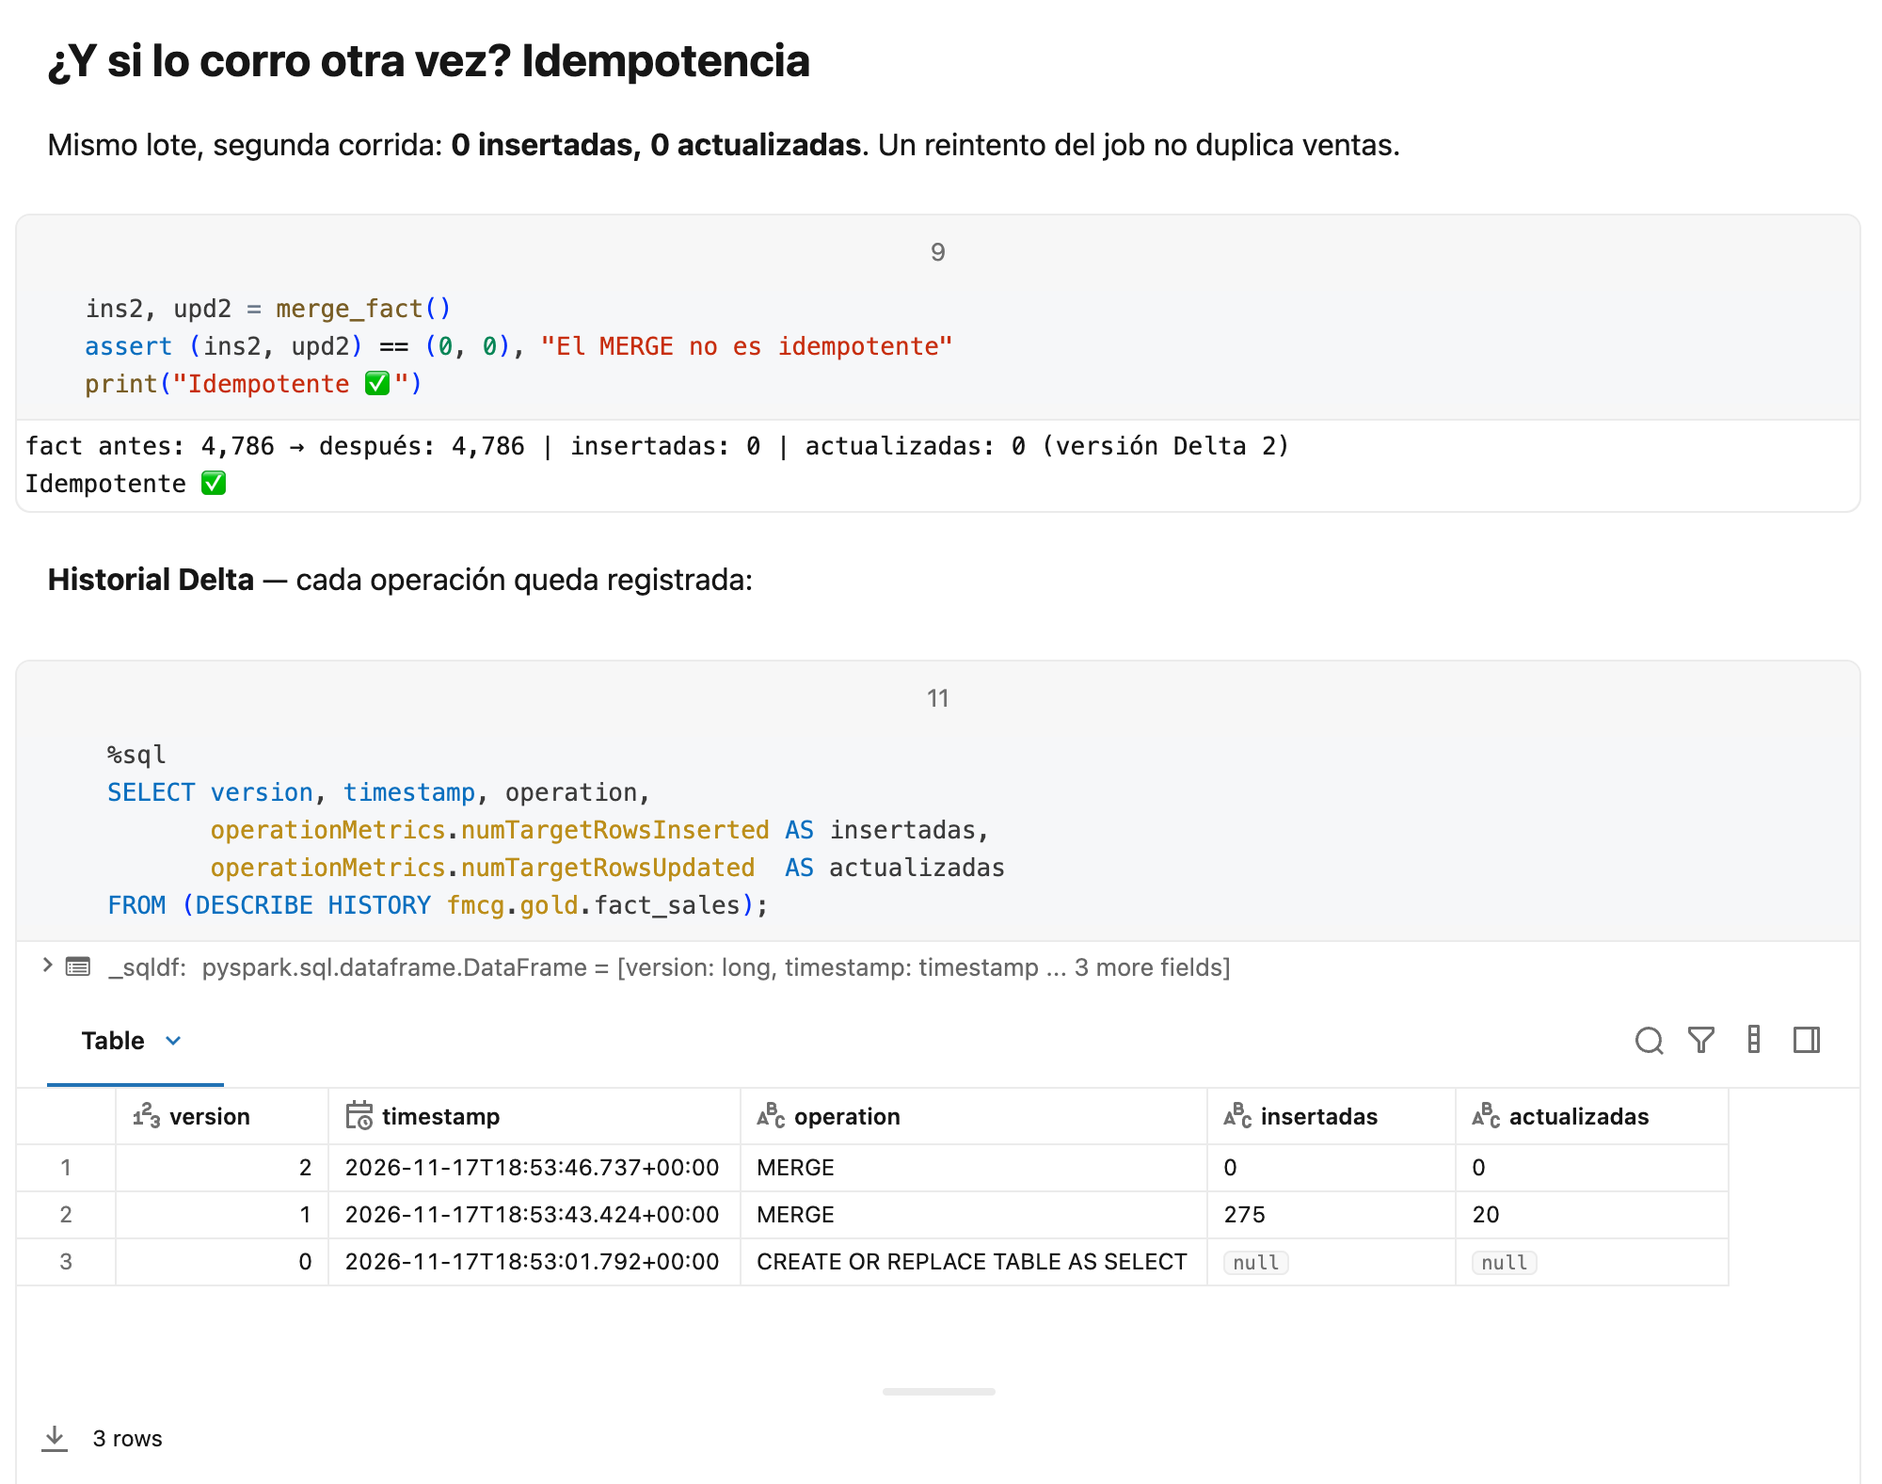
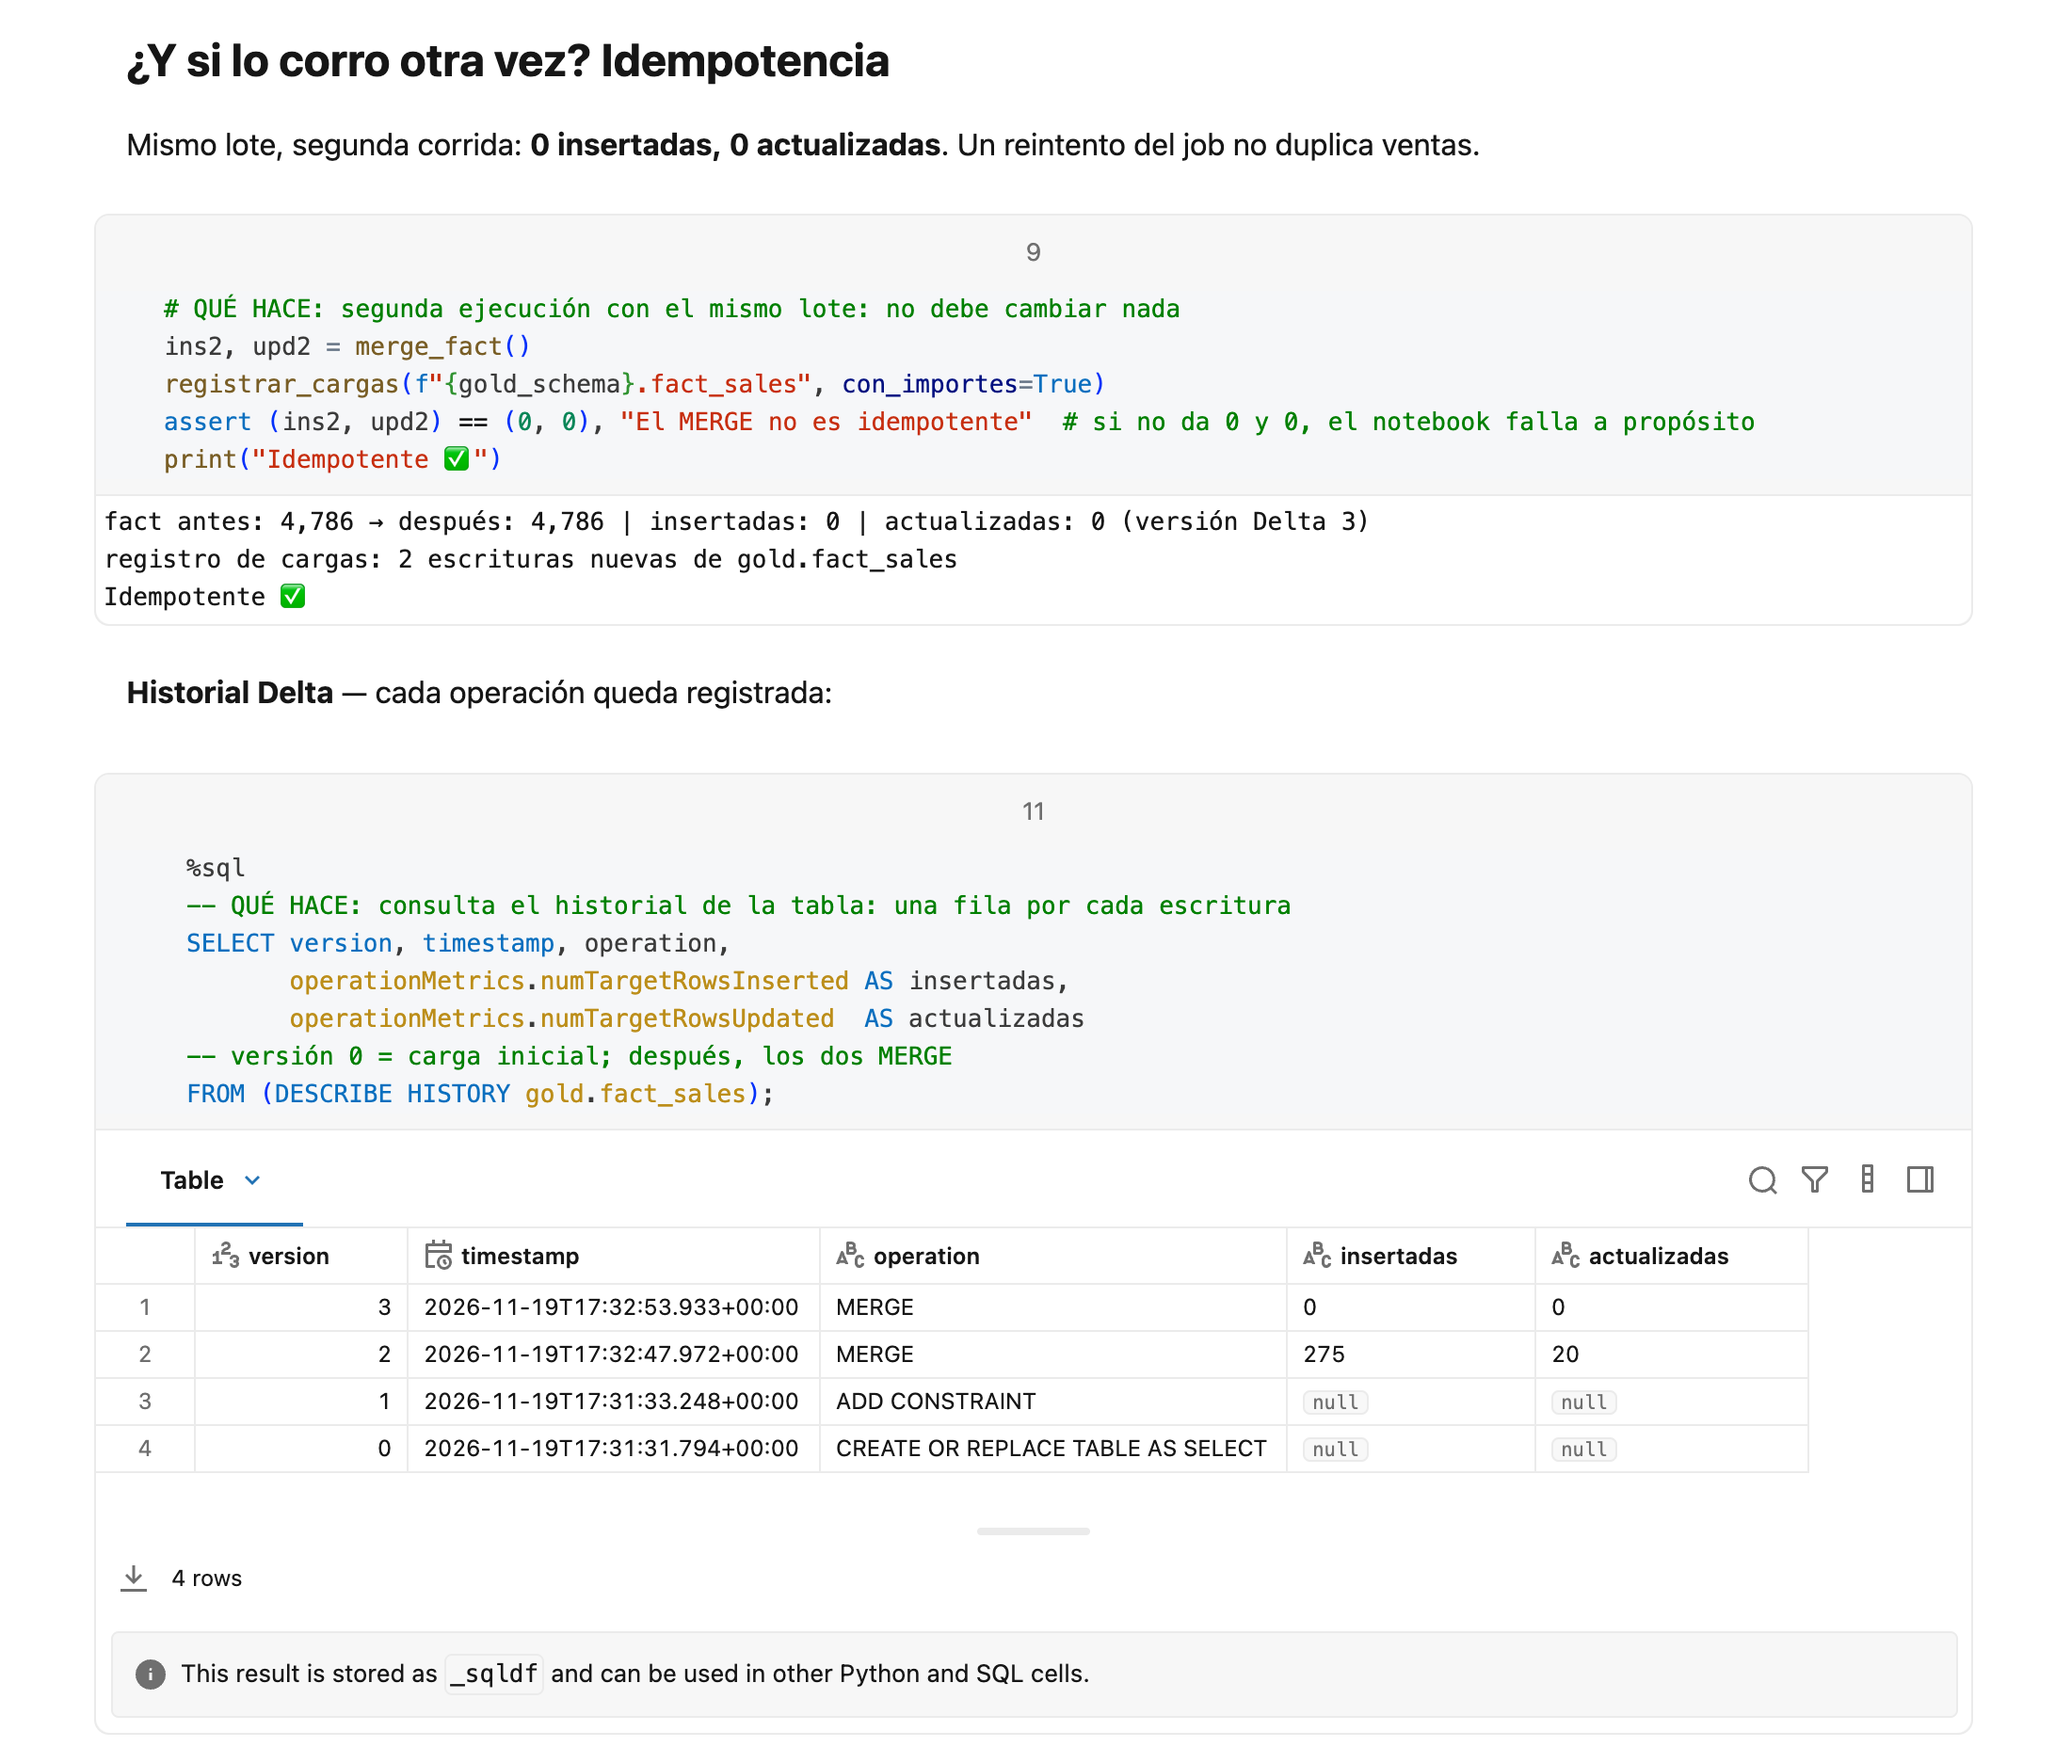
Capturas del README tomadas de esta versión, prueba de la validación sin historial de Delta y run_all en cluster con el código final

diff --git a/qa/pruebas/historial_recortado.py b/qa/pruebas/historial_recortado.py
@@ -1,0 +1,27 @@
+# Databricks notebook source
+# MAGIC %md
+# MAGIC ## Prueba · la validación no necesita el historial de Delta
+# MAGIC Delta recorta el historial de una tabla con el tiempo, y ese recorte no se puede forzar en el día. Esta prueba lo simula: sustituye `gold.fact_sales` y `silver.orders` por clones de sí mismas, cuyo historial empieza de cero y ya no contiene la carga inicial ni los `MERGE`. Después se ejecuta `98_validacion`: si da todas las cifras, es porque las lee del registro de cargas (`gold.load_log`) y no del historial.
+# MAGIC
+# MAGIC Ejecútala con el pipeline ya corrido. Los datos de las tablas no cambian.
+
+# COMMAND ----------
+
+# MAGIC %run ../../notebooks/utilities
+
+# COMMAND ----------
+
+for tabla in (f"{gold_schema}.fact_sales", f"{silver_schema}.orders"):
+    antes = [h["operation"] for h in spark.sql(f"DESCRIBE HISTORY {catalog}.{tabla}").collect()]
+    filas = spark.table(f"{catalog}.{tabla}").count()
+    spark.sql(f"CREATE OR REPLACE TABLE {catalog}.{tabla}__clon DEEP CLONE {catalog}.{tabla}")
+    spark.sql(f"DROP TABLE {catalog}.{tabla}")
+    spark.sql(f"CREATE TABLE {catalog}.{tabla} DEEP CLONE {catalog}.{tabla}__clon")
+    spark.sql(f"DROP TABLE {catalog}.{tabla}__clon")
+    despues = [h["operation"] for h in spark.sql(f"DESCRIBE HISTORY {catalog}.{tabla}").collect()]
+    print(tabla, "| historial antes:", len(antes), "versiones, con MERGE:", "MERGE" in antes, "| después:", despues)
+    assert "MERGE" in antes, "ejecuta antes el pipeline completo"
+    assert "MERGE" not in despues and len(despues) < len(antes), "el historial no quedó recortado"
+    assert spark.table(f"{catalog}.{tabla}").count() == filas, "los datos cambiaron"
+
+print("Historial sustituido. Ahora ejecuta 98_validacion: debe dar todas las cifras.")

diff --git a/README.md b/README.md
@@ -220,10 +220,10 @@ Los jobs fallan a medias y se reintentan. Una carga que duplica en el reintento 
 - **La condición con `<=>`** compara tratando a `NULL` como un valor más, así que solo se reescriben las filas que de verdad cambiaron.
 - **Silver y Gold** usan `MERGE` con una condición de cambio: solo reescriben una fila si su cantidad (o su precio) cambió. Gold lo prueba en el propio notebook, que falla si la segunda ejecución no da 0 y 0; la validación comprueba además que, en ambas capas, todo `MERGE` posterior al primero no cambió nada.
 - **Bronze** usa Auto Loader: su *checkpoint* anota cada archivo procesado y avanza junto con la escritura, así que un archivo queda cargado exactamente una vez aunque la ejecución se interrumpa y se repita.
-- **Probado, no solo diseñado:** con este mismo código, en serverless y sobre el catálogo de `dev`, una segunda ejecución completa sin reset terminó en verde con las 66 comprobaciones, y lo mismo el orquestador `run_all` desde cero. Con una orden inesperada añadida en un archivo nuevo, el job terminó en rojo y señaló las 11 cifras afectadas. De estas pruebas se conserva el [registro del resultado](qa/evidencia/ejecucion_job.json), no las salidas completas.
+- **Probado, no solo diseñado:** con este mismo código, en serverless y sobre el catálogo de `dev`, una segunda ejecución completa sin reset terminó en verde con las 66 comprobaciones, y lo mismo el orquestador `run_all`, desde cero en serverless y sin reset en un cluster de un nodo. Con una orden inesperada añadida en un archivo nuevo, el job terminó en rojo y señaló las 11 cifras afectadas. De estas pruebas se conserva el [registro del resultado](qa/evidencia/ejecucion_job.json), no las salidas completas.
 - **Qué prueba cada cosa:** la idempotencia del `MERGE` la demuestra el notebook `08`, que lo ejecuta dos veces con el mismo lote. Una re-ejecución completa sin reset llega al mismo resultado por otro camino: Bronze no carga nada nuevo y Silver y la tabla de hechos se reconstruyen desde todo Bronze.
 - **Recuperación ante un corte:** la tabla de paso se arma con las filas incrementales de Bronze más recientes que las que ya contiene, no con la memoria de la ejecución. Si la ejecución se interrumpe después de cargar Bronze y antes de escribirla, el reintento la reconstruye; está probado con [`qa/pruebas/corte_bronze.py`](qa/pruebas/corte_bronze.py): tras el corte, el resto del pipeline dio 66 de 66.
-- **La validación no depende del historial de Delta:** cada carga completa y cada `MERGE` se copia a una tabla propia, `gold.load_log`, y la validación lee de ahí. El historial de Delta se recorta con el tiempo; el registro, no. No está probado con un historial ya recortado.
+- **La validación no depende del historial de Delta:** cada carga completa y cada `MERGE` se copia a una tabla propia, `gold.load_log`, y la validación lee de ahí. El historial de Delta se recorta con el tiempo; el registro, no. Probado con [`qa/pruebas/historial_recortado.py`](qa/pruebas/historial_recortado.py), que sustituye las tablas por clones sin historial: la validación dio 66 de 66. Es una simulación, porque el recorte real de Delta no se puede forzar en el día.
 - **Filas malformadas:** un valor que no encaja en el tipo declarado (un texto donde va un número) no se convierte en nulo en silencio: Auto Loader lo guarda en `_rescued_data` y Silver envía la orden a cuarentena con el motivo `fila_malformada`. Probado con [`qa/pruebas/fila_malformada.py`](qa/pruebas/fila_malformada.py). **Límite:** una fila con columnas de más no se señala, porque el lector CSV descarta los valores sobrantes; y la regla solo existe para órdenes.
 
 | El `MERGE` ejecutado | Segunda ejecución e historial de la tabla |
@@ -299,13 +299,13 @@ El pipeline se puede volver a ejecutar sin preparar nada: una segunda ejecución
 ```
 ├── notebooks/     14 notebooks en formato fuente de Databricks (00–09, 98, 99, run_all, utilities) y `esperado`, generado
 ├── data/          gen_data.py y los 5 CSV ya generados (carga inicial e incremental)
-├── qa/            oraculo.py (cálculo independiente), esperado.json (cifras esperadas), comparar.py y evidencia/ de la última ejecución
+├── qa/            oraculo.py (cálculo independiente), esperado.json (cifras esperadas), comparar.py, evidencia/ de la última ejecución y pruebas/ adicionales
 ├── databricks.yml definición del job como Databricks Asset Bundle
 ├── jobs/          la misma definición en JSON
 ├── dashboard/     definición del dashboard de ventas
 ├── tools/         utilidad para quitar o poner los comentarios de los notebooks
 ├── docs/          guía de ejecución, decisiones de diseño y limitaciones, y capturas del README
-└── .github/       verificación automática en cada cambio
+└── .github/       verificación automática en cada cambio y despliegue desde GitHub
 ```
 
 ## Limitaciones y siguientes pasos

diff --git a/README.en.md b/README.en.md
@@ -222,10 +222,10 @@ Jobs fail halfway and get retried. A load that duplicates on retry inflates sale
 - **The `<=>` condition** compares treating `NULL` as just another value, so only the rows that really changed are rewritten.
 - **Silver and Gold** use `MERGE` with a change condition: a row is only rewritten if its quantity (or its price) changed. Gold proves it in the notebook itself, which fails if the second run does not give 0 and 0; validation also checks that, in both layers, every `MERGE` after the first one changed nothing.
 - **Bronze** uses Auto Loader: its checkpoint records every processed file and advances together with the write, so a file is loaded exactly once even if the run is interrupted and repeated.
-- **Tested, not just designed:** with this same code, on serverless and against the `dev` catalog, a second full run without a reset ended green on all 66 checks, and so did the `run_all` orchestrator from scratch. With an unexpected order added in a new file, the job failed and flagged the 11 affected figures. For these tests the [result is recorded](qa/evidencia/ejecucion_job.json), not the full outputs.
+- **Tested, not just designed:** with this same code, on serverless and against the `dev` catalog, a second full run without a reset ended green on all 66 checks, and so did the `run_all` orchestrator, from scratch on serverless and without a reset on a single-node cluster. With an unexpected order added in a new file, the job failed and flagged the 11 affected figures. For these tests the [result is recorded](qa/evidencia/ejecucion_job.json), not the full outputs.
 - **What proves what:** the idempotency of `MERGE` is shown by notebook `08`, which runs it twice with the same batch. A full re-run without a reset reaches the same result by another path: Bronze loads nothing new, and Silver and the fact table are rebuilt from all of Bronze.
 - **Recovery after an interruption:** the staging table is built from the incremental Bronze rows that are newer than the ones it already holds, not from the memory of the run. If the run is interrupted after loading Bronze and before writing it, the retry rebuilds it; this is tested with [`qa/pruebas/corte_bronze.py`](qa/pruebas/corte_bronze.py): after the interruption, the rest of the pipeline passed 66 of 66.
-- **Validation does not depend on Delta history:** every full load and every `MERGE` is copied to a table of its own, `gold.load_log`, and validation reads from there. Delta history is trimmed over time; the log is not. It has not been tested with an already trimmed history.
+- **Validation does not depend on Delta history:** every full load and every `MERGE` is copied to a table of its own, `gold.load_log`, and validation reads from there. Delta history is trimmed over time; the log is not. Tested with [`qa/pruebas/historial_recortado.py`](qa/pruebas/historial_recortado.py), which replaces the tables with clones that have no history: validation passed 66 of 66. It is a simulation, because the real Delta trimming cannot be forced within a day.
 - **Malformed rows:** a value that does not fit the declared type (text where a number goes) does not silently become null: Auto Loader keeps it in `_rescued_data` and Silver sends the order to quarantine with the reason `fila_malformada`. Tested with [`qa/pruebas/fila_malformada.py`](qa/pruebas/fila_malformada.py). **Limit:** a row with extra columns is not flagged, because the CSV reader drops the surplus values; and the rule only exists for orders.
 
 | The `MERGE`, executed | Second run and table history |
@@ -301,13 +301,13 @@ The pipeline can be run again with no preparation: a second full run leaves the 
 ```
 ├── notebooks/     14 notebooks in Databricks source format (00–09, 98, 99, run_all, utilities) and `esperado`, generated
 ├── data/          gen_data.py and the 5 generated CSV files (initial and incremental load)
-├── qa/            oraculo.py (independent calculation), esperado.json (expected figures), comparar.py and evidencia/ from the latest run
+├── qa/            oraculo.py (independent calculation), esperado.json (expected figures), comparar.py, evidencia/ from the latest run and additional tests in pruebas/
 ├── databricks.yml job definition as a Databricks Asset Bundle
 ├── jobs/          the same definition as JSON
 ├── dashboard/     definition of the sales dashboard
 ├── tools/         utility to remove or restore the notebook comments
 ├── docs/          run guide, design decisions and limitations, and README screenshots
-└── .github/       automated verification on every change
+└── .github/       automated verification on every change and deployment from GitHub
 ```
 
 ## Limitations and next steps
